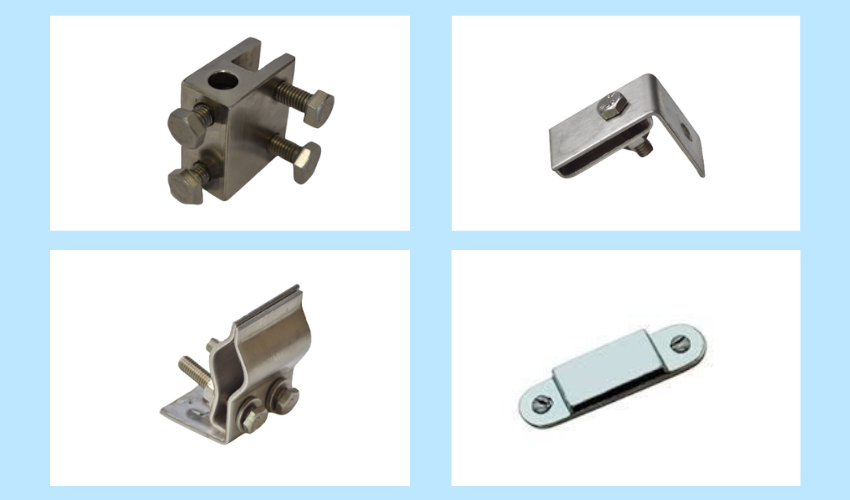
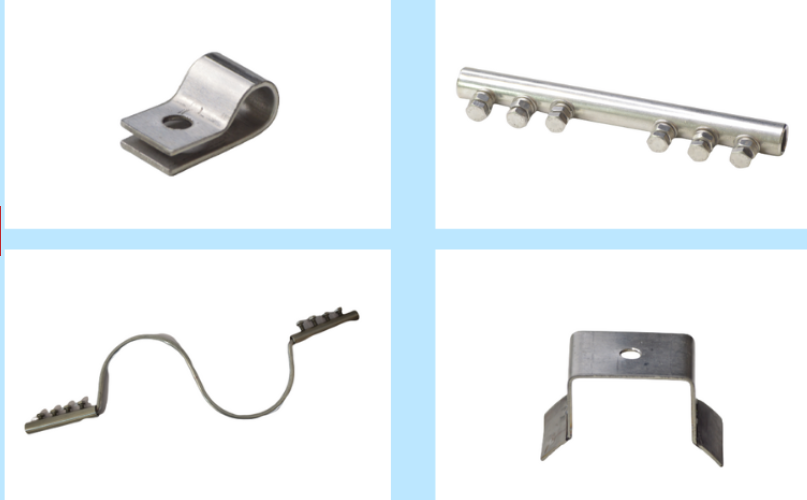
commit

diff --git a/data/solutions.ts b/data/solutions.ts
@@ -14,11 +14,10 @@ export const solutions = [
       "Correct operation of electricity supply networks.",
     ],
     productCategories: [
-      { name: "Earth Electrodes", desc: "High-quality copper-bonded steel or solid copper electrodes designed to safely dissipate high fault currents into the ground, ensuring extremely low earth resistance and long-term defense against soil corrosion.", image: "/images/Earth-electrode.jpg" },
+      { name: "Earth Electrodes", desc: "High-quality copper-bonded steel or solid copper electrodes designed to safely dissipate high fault currents into the ground, ensuring extremely low earth resistance and long-term defense against soil corrosion." },
       { name: "Backfill Compounds", desc: "Highly conductive, moisture-retaining ground enhancement material (GEM) that drastically lowers earth resistance in challenging rocky or sandy soils, providing a permanent and maintenance-free grounding environment.", image: "/images/back-fill-earthing-compound.webp" },
       { name: "Earthpit Chambers", desc: "Heavy-duty, load-bearing inspection pits installed over the earth electrode to provide a secure, easily accessible point for routine testing, inspection, and long-term maintenance of the earthing connections.", image: "/images/earthpit-chambers-hq.png" },
-      { name: "Earthing Clamps", desc: "High-strength copper alloy clamps that establish secure, extremely low-resistance mechanical connections between electrodes and grounding conductors, capable of withstanding severe fault currents without degrading.", image: "/images/earthing-clamp.jpg" },
-      { name: "Exothermic Welding", desc: "A highly reliable welding process that creates a permanent, molecular bond between copper conductors. These joints will not loosen or corrode over time, making them the superior choice for critical underground connections.", image: "/images/exothermic-welding-hq.png" },
+      { name: "Exothermic Welding", desc: "A highly reliable welding process that creates a permanent, molecular bond between copper conductors. These joints will not loosen or corrode over time, making them the superior choice for critical underground connections." },
     ],
     valueAdds: [
       "Cost-effective solution for reliable and robust grounding.",
@@ -44,11 +43,16 @@ export const solutions = [
     shortDesc: "End-to-end lightning protection from risk assessment to design, supply, installation, and commissioning as per IS/IEC 62305.",
     heroTag: "SOLUTIONS / LIGHTNING SYSTEM",
     overview: `Lightning is an act of God that risks life and assets. There is no method to prevent lightning strikes. A prudent approach is to measure and manage lightning risk for adequate protection.\n\nIEC 62305 emphasizes the need to protect structures and people from direct lightning, and also protect electrical and electronic equipment from conducted surges (via SPDs) and radiated surges (via Faraday cage-type LPS). Aadithya offers comprehensive lightning protection systems — from risk assessment to design, supply, installation, testing, and commissioning.`,
+    whatAreSurges: `A transient overvoltage (surge) is a short-duration spike in electrical voltage that can reach thousands of volts above normal operating levels. Sources include direct or nearby lightning strikes, utility grid switching, motor start/stop events, and capacitor bank switching. These surges can destroy equipment instantly or degrade it over time, causing unplanned downtime and costly replacements.`,
     offerings: [
-      { name: "ESE Lightning Protection", desc: "Advanced Early Streamer Emission (ESE) active air terminals designed to proactively intercept lightning strikes earlier than conventional rods, offering a significantly larger radius of protection for expansive facilities.", image: "/images/ese-lightning-arrester.jpg" },
+      { name: "ESE Lightning Protection", desc: "Advanced Early Streamer Emission (ESE) active air terminals designed to proactively intercept lightning strikes earlier than conventional rods, offering a significantly larger radius of protection for expansive facilities.", image: "/images/ese-lightning-arrester.png" },
       { name: "CLPS Products", desc: "Conventional Lightning Protection Systems comprising Franklin rods, down conductors, and earth termination networks that form a Faraday cage to safely capture and route lightning currents to the ground.", image: "/images/clps.png" },
-      { name: "Surge Protection Devices (SPDs)", desc: "High-performance transient voltage surge suppressors essential for clamping overvoltages and diverting dangerous surge currents away from critical power panels and sensitive communication lines.", image: "/images/surge-protection-device-hq.png" },
+      { name: "Surge Protection Devices (SPDs)", desc: "High-performance transient voltage surge suppressors essential for clamping overvoltages and diverting dangerous surge currents away from critical power panels and sensitive communication lines." },
       { name: "Risk Assessment Tool", desc: "A comprehensive, software-driven quantitative lightning risk analysis conducted strictly in accordance with IS/IEC 62305-2 to evaluate vulnerability and determine the exact class of protection required.", image: "/images/risk-assessment-tool.png" },
+      { name: "Type 1 SPD", desc: "Installed at the main distribution board, Type 1 SPDs safely discharge high-energy, direct lightning currents (10/350µs waveform). They are a mandatory requirement for facilities equipped with an external lightning protection system." },
+      { name: "Type 2 SPD", desc: "Deployed at sub-distribution panels, Type 2 SPDs serve as the primary defense against indirect lightning strikes and internal switching surges (8/20µs waveform), effectively clamping residual overvoltages to safe levels." },
+      { name: "Type 3 SPD", desc: "Installed directly at the point of use, Type 3 SPDs provide highly sensitive, fine-tuned protection for delicate electronic equipment, computers, and instrumentation, neutralizing any minor transients that bypass upstream protection." },
+      { name: "Signal & Data SPD", desc: "Specialized surge arresters engineered to protect sensitive, low-voltage communication networks. They ensure data integrity and prevent catastrophic hardware damage across Ethernet, RS-485, telecom, and critical instrumentation lines." },
     ],
     valueAdds: [
       "Cost-effective, reliable, and customized solutions.",
@@ -58,9 +62,13 @@ export const solutions = [
       "Design of LPS for new and existing structures.",
       "LPS adequacy study for existing structures.",
       "On-site installation services for external LPS and SPD.",
+      "Coordinated protection system — Types 1, 2, and 3 — ensuring full zone-of-protection coverage.",
+      "Protection for Power, Signal, Instrumentation, Ethernet, and Telecom lines.",
+      "Type-tested and certified SPD products.",
+      "Energy coordination between SPD types to prevent back-surges.",
     ],
     deliveryModel: "Design → Supply → Installation → Commissioning & Testing (on deliverable basis)",
-    standards: ["IS/IEC 62305", "IEC 62561", "IS 3043", "IEC 60364"],
+    standards: ["IS/IEC 62305", "IEC 62561", "IS 3043", "IEC 60364", "IS/IEC 61643-11", "IS/IEC 61643-21", "IS/IEC 62305-4", "IEC 60364-5-53"],
     applicationArea: [
       "AIS & GIS Substations", "Commercial Buildings", "Factories & Industrial Plants",
       "Oil & Gas", "Wind & Solar Plants", "Communication Towers",
@@ -98,37 +106,5 @@ export const solutions = [
       "Data Centers", "Commercial High-Rise Buildings",
     ],
   },
-  {
-    id: "surge-protection",
-    slug: "surge-protection",
-    icon: "ShieldAlert",
-    title: "Surge Protection System",
-    subtitle: "SPD Design, Supply & Installation",
-    shortDesc: "Comprehensive surge protection device (SPD) solutions to safeguard electrical and electronic equipment from transient overvoltages.",
-    heroTag: "SOLUTIONS / SURGE PROTECTION",
-    overview: `Transient overvoltages caused by lightning strikes, switching operations, and other electrical disturbances pose a serious threat to sensitive electronic equipment and electrical infrastructure. A properly designed and installed Surge Protection System is essential to mitigate these risks.\n\nAadithya offers end-to-end surge protection solutions — from risk assessment and system design to supply, installation, and commissioning of SPDs across power, data, signal, and instrumentation lines.`,
-    whatAreSurges: `A transient overvoltage (surge) is a short-duration spike in electrical voltage that can reach thousands of volts above normal operating levels. Sources include direct or nearby lightning strikes, utility grid switching, motor start/stop events, and capacitor bank switching. These surges can destroy equipment instantly or degrade it over time, causing unplanned downtime and costly replacements.`,
-    spdCategories: [
-      { type: "Type 1 SPD", desc: "Installed at the main distribution board, Type 1 SPDs safely discharge high-energy, direct lightning currents (10/350µs waveform). They are a mandatory requirement for facilities equipped with an external lightning protection system.", image: "/images/Type-1-spd.png" },
-      { type: "Type 2 SPD", desc: "Deployed at sub-distribution panels, Type 2 SPDs serve as the primary defense against indirect lightning strikes and internal switching surges (8/20µs waveform), effectively clamping residual overvoltages to safe levels.", image: "/images/type-2-spd.webp" },
-      { type: "Type 3 SPD", desc: "Installed directly at the point of use, Type 3 SPDs provide highly sensitive, fine-tuned protection for delicate electronic equipment, computers, and instrumentation, neutralizing any minor transients that bypass upstream protection.", image: "/images/type-3spd-hq.png" },
-      { type: "Signal & Data SPD", desc: "Specialized surge arresters engineered to protect sensitive, low-voltage communication networks. They ensure data integrity and prevent catastrophic hardware damage across Ethernet, RS-485, telecom, and critical instrumentation lines.", image: "/images/Data-and-Signal-Surge-Protector-Device-SPD-.webp" },
-    ],
-    valueAdds: [
-      "SPDs designed in compliance with IS/IEC 61643-11 (Power) and IS/IEC 61643-21 (Data & Signal).",
-      "Coordinated protection system — Types 1, 2, and 3 — ensuring full zone-of-protection coverage.",
-      "Protection for Power, Signal, Instrumentation, Ethernet, and Telecom lines.",
-      "Type-tested and certified SPD products.",
-      "Energy coordination between SPD types to prevent back-surges.",
-      "Detailed installation drawings, commissioning reports, and compliance documentation.",
-    ],
-    deliveryModel: "Risk Assessment → SPD Design → Supply → Installation → Testing & Commissioning",
-    standards: ["IS/IEC 61643-11", "IS/IEC 61643-21", "IS/IEC 62305-4", "IEC 60364-5-53"],
-    applicationArea: [
-      "Industrial Plants & Factories", "Commercial & High-Rise Buildings",
-      "Data Centers & IT Facilities", "Hospitals & Medical Equipment",
-      "Solar & Wind Plants", "Substations & Control Rooms",
-      "Oil & Gas Installations", "Communication Towers",
-    ],
-  },
 ];
+

diff --git a/app/solutions/[slug]/page.tsx b/app/solutions/[slug]/page.tsx
@@ -204,71 +204,89 @@ export default function SolutionDetailPage({ params }: { params: { slug: string 
                     <span className="w-2 h-2 rounded-full bg-red-600" />
                     <span className="text-slate-700 font-display font-bold text-xs tracking-widest uppercase">Our Offerings</span>
                   </div>
-                  <div className="grid grid-cols-1 md:grid-cols-2 gap-6">
-                    {/* Inject Floating Animation Styles */}
-                    <style dangerouslySetInnerHTML={{ __html: `
-                      @keyframes blob {
-                        0% { transform: translate(0px, 0px) scale(1); }
-                        33% { transform: translate(30px, -50px) scale(1.1); }
-                        66% { transform: translate(-20px, 20px) scale(0.9); }
-                        100% { transform: translate(0px, 0px) scale(1); }
-                      }
-                      .animate-blob {
-                        animation: blob 15s infinite ease-in-out;
-                      }
-                      .animation-delay-2000 {
-                        animation-delay: 2s;
-                      }
-                      .animation-delay-4000 {
-                        animation-delay: 4s;
-                      }
-                    `}} />
 
-                    {(solution.offerings || solution.productCategories || solution.spdCategories)?.map((item: { name?: string; type?: string; desc?: string; image?: string }, i: number) => {
-                      const bgImages = [
-                        "1581092160562-40aa08e78837", // Engineering
-                        "1504328345606-18bbc8c9d7d1", // Blueprint/Architecture
-                        "1513828583688-c52646db42da", // Abstract Architecture
-                        "1530893609608-32a9af3aa95c", // Tech/Circuit
-                      ];
-                      const bgId = bgImages[i % bgImages.length];
-                      const finalImage = item.image || `https://images.unsplash.com/photo-${bgId}?auto=format&fit=crop&w=600&q=80`;
+                  {/* Inject Styles */}
+                  <style dangerouslySetInnerHTML={{ __html: `
+                    @keyframes blob {
+                      0% { transform: translate(0px, 0px) scale(1); }
+                      33% { transform: translate(30px, -50px) scale(1.1); }
+                      66% { transform: translate(-20px, 20px) scale(0.9); }
+                      100% { transform: translate(0px, 0px) scale(1); }
+                    }
+                    .animate-blob { animation: blob 15s infinite ease-in-out; }
+                    .animation-delay-2000 { animation-delay: 2s; }
+                    .animation-delay-4000 { animation-delay: 4s; }
+                    
+                    @keyframes hue-cycle {
+                      0% { filter: hue-rotate(0deg); }
+                      100% { filter: hue-rotate(360deg); }
+                    }
+                    .animate-hue-cycle { animation: hue-cycle 10s linear infinite; }
+                    
+                    .hide-scrollbar::-webkit-scrollbar { display: none; }
+                    .hide-scrollbar { -ms-overflow-style: none; scrollbar-width: none; }
+                  `}} />
 
-                      return (
-                        <div key={i} className="group rounded-3xl overflow-hidden shadow-sm hover:shadow-2xl hover:shadow-red-900/10 hover:-translate-y-2 transition-all duration-500 flex flex-col h-full bg-white border border-slate-200 hover:border-red-400 relative">
-                          
-                          {/* Top: Image */}
-                          <div className="relative h-56 w-full overflow-hidden border-b border-slate-100 z-10 bg-white">
-                            <Image 
-                              src={finalImage} 
-                              alt={item.name || item.type || "Offering feature"} 
-                              fill
-                              className="object-cover transition-transform duration-700 group-hover:scale-105"
-                            />
-                            {/* Subtle overlay on hover */}
-                            <div className="absolute inset-0 bg-red-900/0 group-hover:bg-red-900/5 transition-colors duration-500" />
-                          </div>
+                  {(() => {
+                    const allItems = solution.offerings || solution.productCategories || solution.spdCategories || [];
+                    const withImage = allItems.filter((item: any) => item.image);
 
-                          {/* Bottom: Content */}
-                          <div className="relative p-8 flex-1 flex flex-col overflow-hidden z-10 bg-white">
-                            
-                            {/* Premium Soft Blob Animation Background */}
-                            <div className="absolute inset-0 w-full h-full pointer-events-none z-0 overflow-hidden opacity-100">
-                              <div className="absolute top-[-10%] left-[-10%] w-32 h-32 bg-red-100 rounded-full mix-blend-multiply filter blur-2xl animate-blob"></div>
-                              <div className="absolute top-[-10%] right-[-10%] w-32 h-32 bg-rose-100 rounded-full mix-blend-multiply filter blur-2xl animate-blob animation-delay-2000"></div>
-                              <div className="absolute bottom-[-20%] left-[20%] w-40 h-40 bg-slate-100 rounded-full mix-blend-multiply filter blur-2xl animate-blob animation-delay-4000"></div>
+                    return (
+                      <div className="space-y-12">
+                        
+                        {/* Carousel for Images ONLY */}
+                        {withImage.length > 0 && (
+                          <div className="relative -mx-4 px-4 sm:mx-0 sm:px-0">
+                            <div className="flex overflow-x-auto gap-6 pb-6 snap-x snap-mandatory hide-scrollbar">
+                              {withImage.map((item: any, i: number) => (
+                                <div key={i} className="snap-start shrink-0 w-[85vw] sm:w-[400px] md:w-[450px] flex flex-col group relative rounded-3xl overflow-hidden shadow-sm hover:shadow-xl transition-all duration-500 border border-slate-200">
+                                  {/* Just the Image with a title overlay */}
+                                  <div className="relative h-64 sm:h-72 w-full overflow-hidden bg-white shrink-0">
+                                    <Image 
+                                      src={item.image} 
+                                      alt={item.name || item.type || "Offering feature"} 
+                                      fill
+                                      className="object-cover transition-transform duration-700 group-hover:scale-105"
+                                    />
+                                    {/* Gradient overlay for text visibility */}
+                                    <div className="absolute inset-0 bg-gradient-to-t from-slate-900/90 via-slate-900/20 to-transparent" />
+                                    {/* Title Overlay */}
+                                    <div className="absolute bottom-6 left-6 right-6">
+                                      <h4 className="font-display font-bold text-xl sm:text-2xl text-white drop-shadow-md">{item.name || item.type}</h4>
+                                    </div>
+                                  </div>
+                                </div>
+                              ))}
                             </div>
-
-                            {/* Text Content */}
-                            <h4 className="font-display font-bold text-xl text-slate-900 mb-3 group-hover:text-red-600 transition-colors duration-300 relative z-10">{item.name || item.type}</h4>
-                            <p className="text-slate-600 text-sm leading-relaxed font-medium relative z-10 group-hover:text-slate-700 transition-colors duration-300">
-                              {item.desc}
-                            </p>
                           </div>
-                        </div>
-                      );
-                    })}
-                  </div>
+                        )}
+
+                        {/* Grid for ALL Items (Text Only Pattern) */}
+                        {allItems.length > 0 && (
+                          <div className="grid grid-cols-1 md:grid-cols-2 gap-6">
+                            {allItems.map((item: any, i: number) => (
+                              <div key={i} className="group rounded-3xl overflow-hidden shadow-sm hover:shadow-2xl hover:shadow-red-900/10 hover:-translate-y-2 transition-all duration-500 flex flex-col h-full bg-white border border-slate-200 hover:border-red-400 relative">
+                                {/* Inner Content */}
+                                <div className="relative p-8 flex-1 flex flex-col overflow-hidden z-10 bg-white">
+                                  {/* Blobs Container (Hue Shifting synchronously with border) */}
+                                  <div className="absolute inset-0 w-full h-full pointer-events-none z-0 overflow-hidden opacity-100 animate-hue-cycle">
+                                    <div className="absolute top-[-10%] left-[-10%] w-32 h-32 bg-red-100 rounded-full mix-blend-multiply filter blur-2xl animate-blob"></div>
+                                    <div className="absolute top-[-10%] right-[-10%] w-32 h-32 bg-rose-100 rounded-full mix-blend-multiply filter blur-2xl animate-blob animation-delay-2000"></div>
+                                    <div className="absolute bottom-[-20%] left-[20%] w-40 h-40 bg-slate-100 rounded-full mix-blend-multiply filter blur-2xl animate-blob animation-delay-4000"></div>
+                                  </div>
+                                  <h4 className="font-display font-bold text-xl text-slate-900 mb-3 transition-colors duration-300 relative z-10">{item.name || item.type}</h4>
+                                  <p className="text-slate-600 text-sm leading-relaxed font-medium relative z-10 transition-colors duration-300">
+                                    {item.desc}
+                                  </p>
+                                </div>
+                              </div>
+                            ))}
+                          </div>
+                        )}
+
+                      </div>
+                    );
+                  })()}
                 </div>
               )}
 

diff --git a/data/nav.ts b/data/nav.ts
@@ -16,7 +16,6 @@ export const navLinks = [
       { label: "Earthing System", href: "/solutions/earthing-system" },
       { label: "Lightning System", href: "/solutions/lightning-system" },
       { label: "Ground Design", href: "/solutions/ground-design" },
-      { label: "Surge Protection System", href: "/solutions/surge-protection" },
     ],
   },
   { label: "Contact Us", href: "/contact" },
